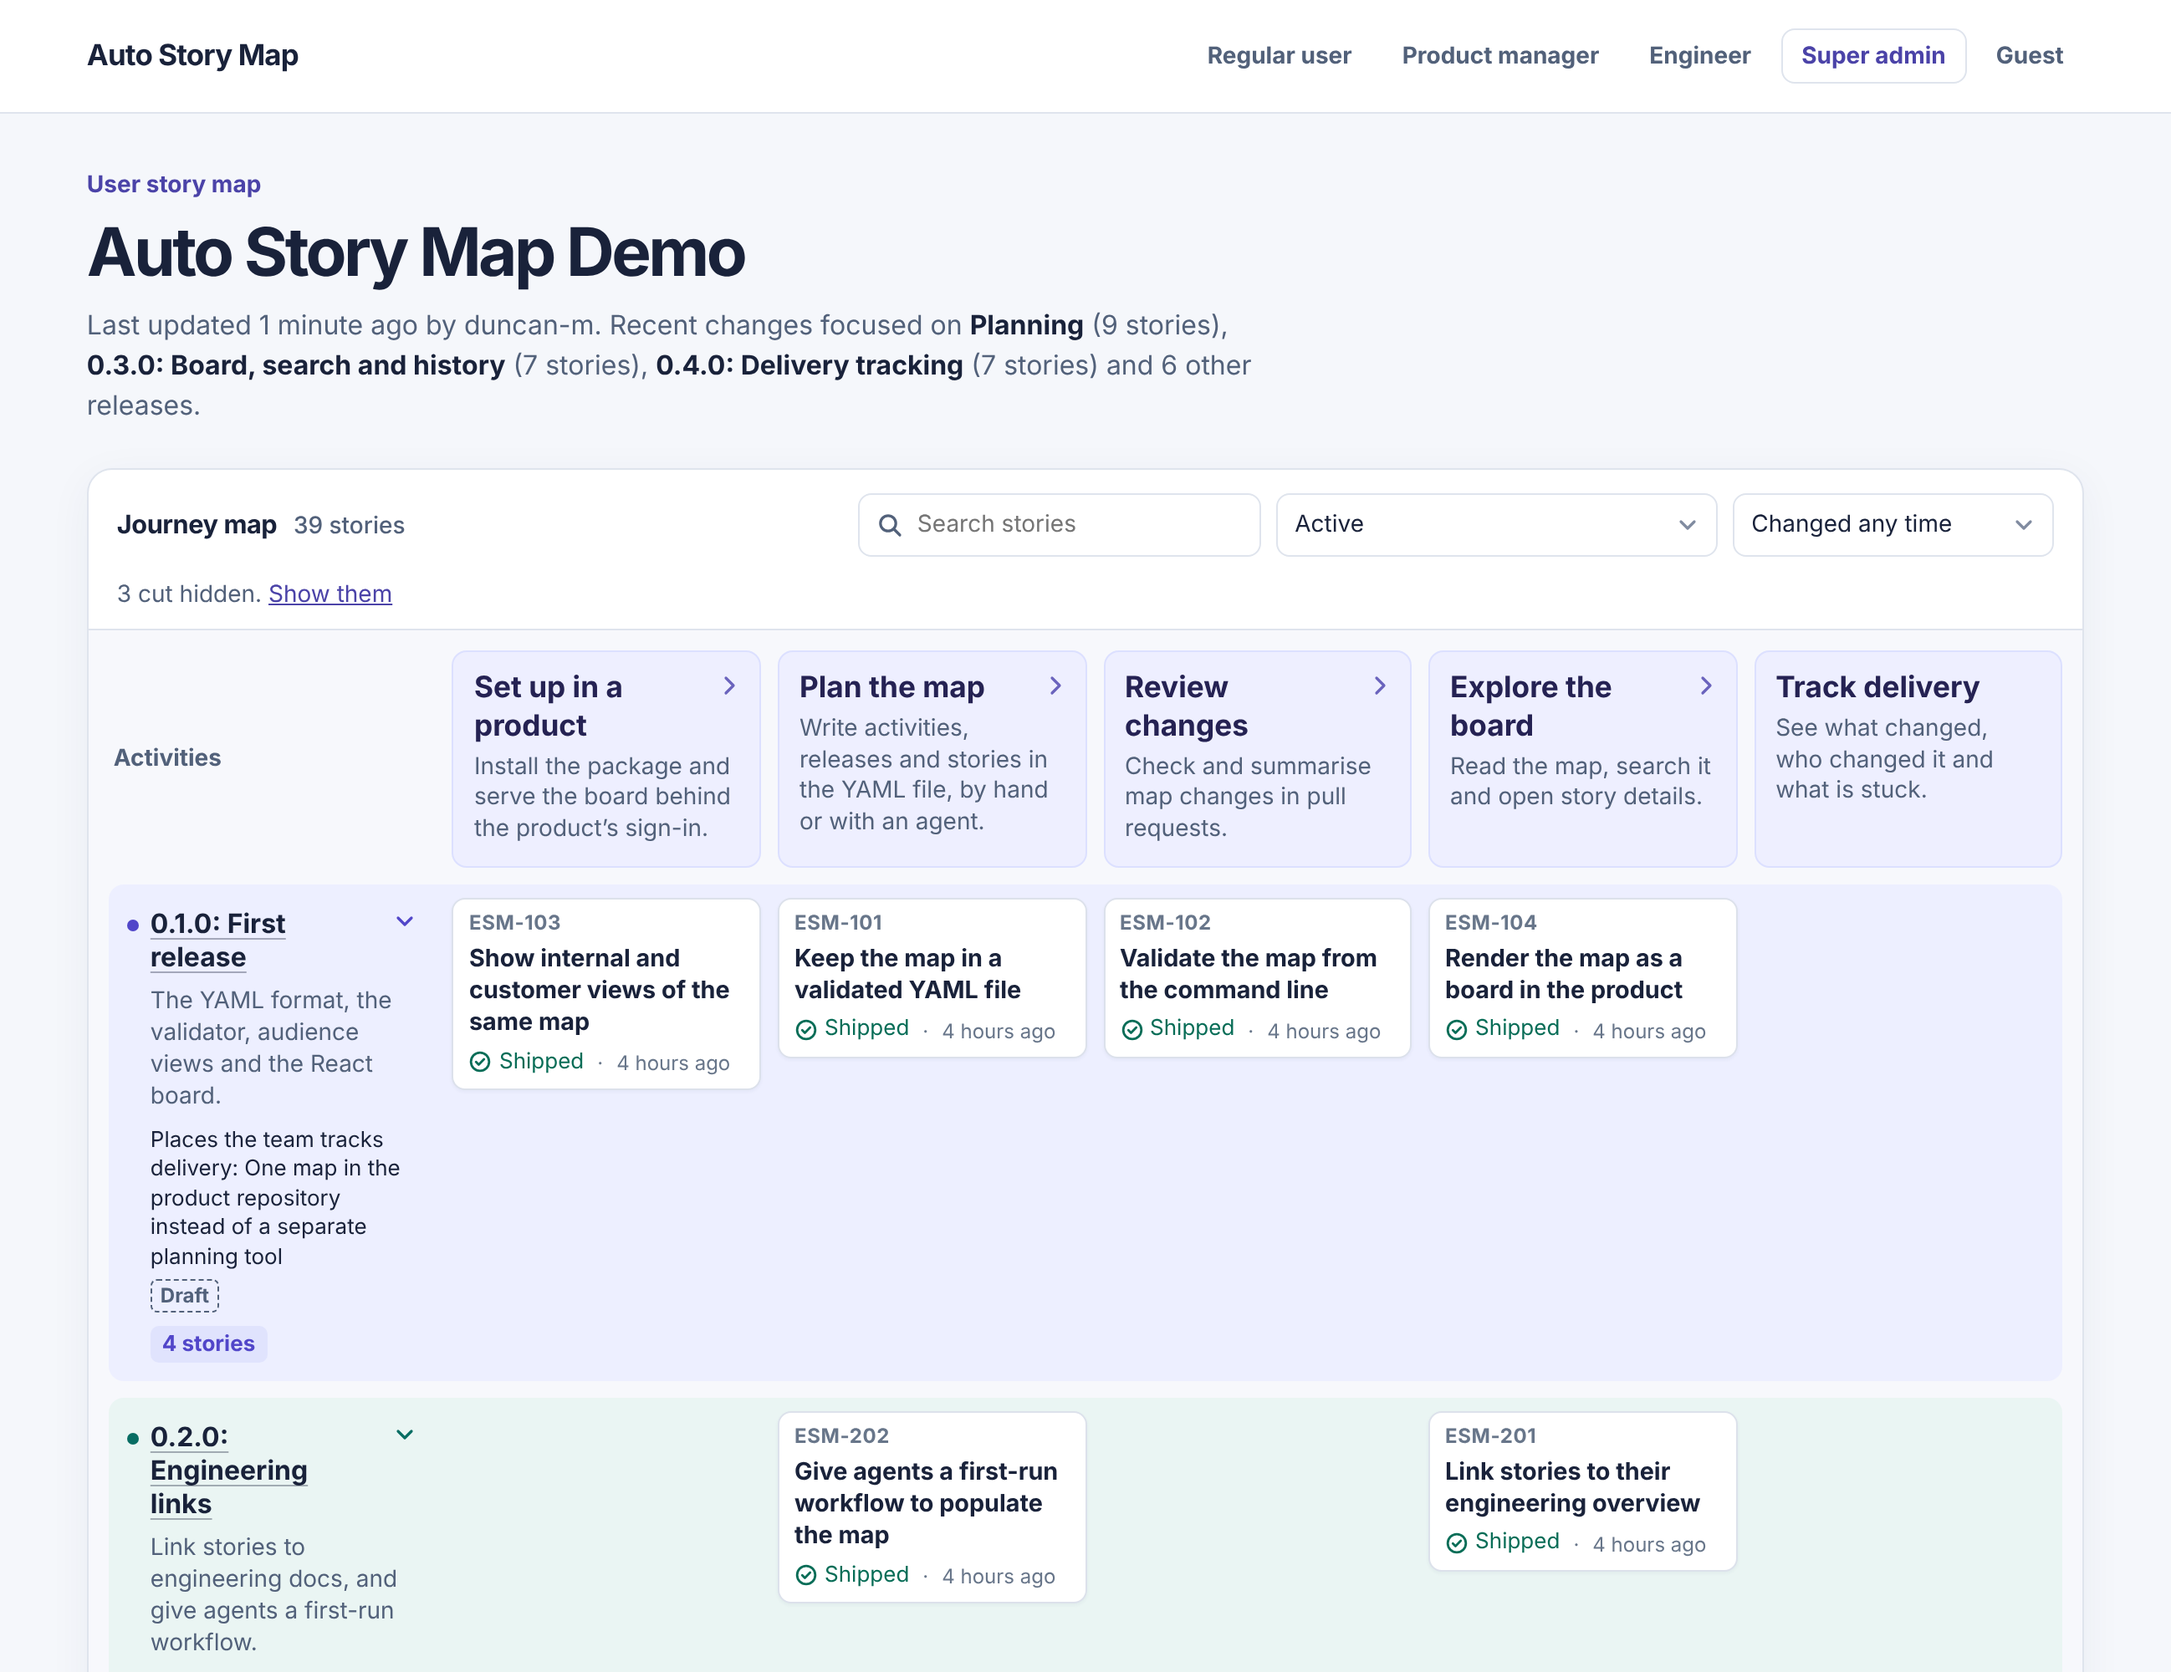
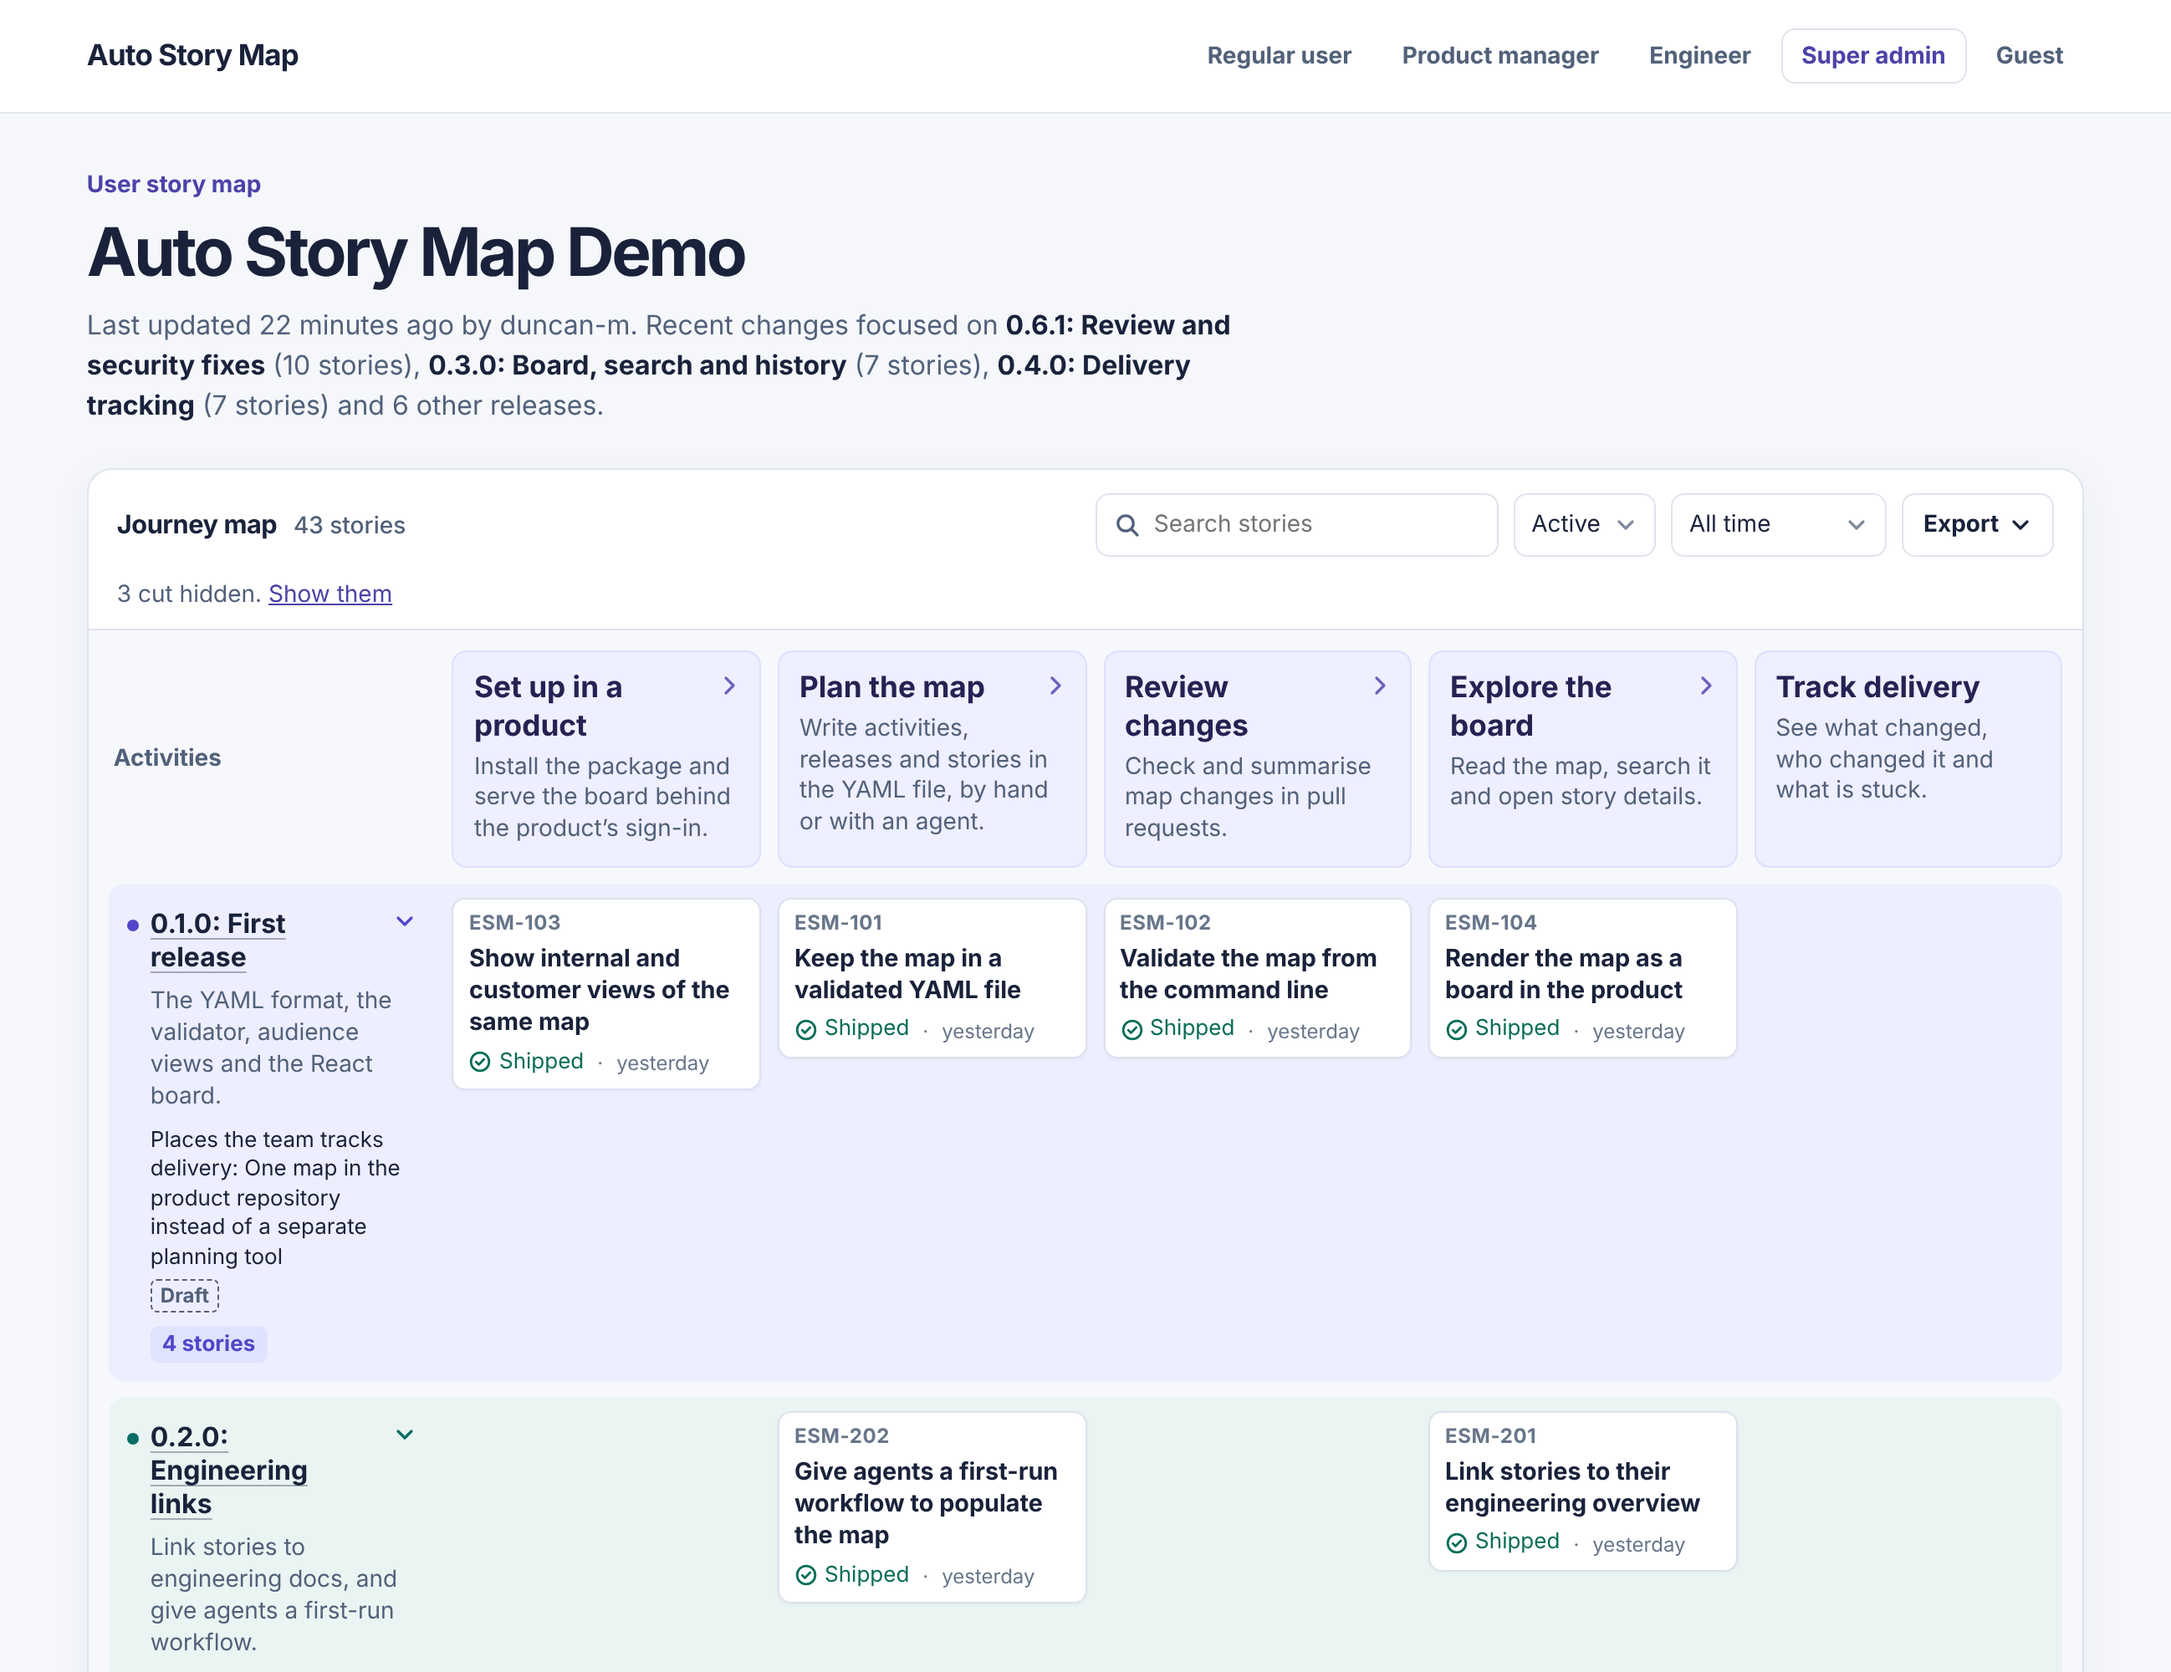
Drop the space in hour times on cards and retake the README screenshot (#65)
* Drop the space in hour times on story cards

Cards now show “5h ago” rather than “5 h ago”.

Claude-Session: https://claude.ai/code/session_01Lq2MQT41yHbjan5anC9srX

* Retake the README screenshot with the Export menu and current map

Claude-Session: https://claude.ai/code/session_01Lq2MQT41yHbjan5anC9srX

---------

diff --git a/src/react.tsx b/src/react.tsx
@@ -132,11 +132,11 @@ function RecentUpdates({ updates, settings }: { updates: StoryMapRecentUpdates; 
   );
 }
 
-/** Cards are tight on space, so “5 h ago” and “12 mins ago”; longer spans read as `formatRelative`. */
+/** Cards are tight on space, so “5h ago” and “12 mins ago”; longer spans read as `formatRelative`. */
 function formatCardRelative(at: string, settings: DateSettings) {
   const minutes = Math.floor((settings.now.getTime() - Date.parse(at)) / 60_000);
   if (minutes >= 1 && minutes < 60) return `${minutes} ${minutes === 1 ? "min" : "mins"} ago`;
-  if (minutes >= 60 && minutes < 24 * 60) return `${Math.floor(minutes / 60)} h ago`;
+  if (minutes >= 60 && minutes < 24 * 60) return `${Math.floor(minutes / 60)}h ago`;
   return formatRelative(at, settings);
 }
 

diff --git a/CHANGELOG.md b/CHANGELOG.md
@@ -8,7 +8,7 @@ One upgrade step: if host code reads `view.filter.status` or the JSON `filter.st
 
 - The board footer shows the short hash of the commit the library was built from, right of the version number, such as “Auto Story Map 0.6.1 50058dd”. Internal boards link it to the commit on GitHub. Builds made outside a git checkout show the version alone. New export `storyMapCommit`.
 
-- Internal cards shorten the time since a story last changed to “5 h ago” and “12 mins ago”. The board header and story panel keep “5 hours ago” and “12 minutes ago”.
+- Internal cards shorten the time since a story last changed to “5h ago” and “12 mins ago”. The board header and story panel keep “5 hours ago” and “12 minutes ago”.
 
 - New `storyMapToVsdx(view, { collapsedReleases, maxStories, now })` writes the internal map as a Visio file (`.vsdx`) to import into Lucidchart, Miro or Visio. It is one page laid out like the board, with release notes and impact, and a card per story showing its ID and title, plus shape data. Collapsed lanes show only their title and story count, and at most 200 of the most recently changed stories are included. Customer views and filtered views are refused. New exports `vsdxContentType` and type `StoryMapExportOptions`. See [Export the map](https://github.com/duncan-m/auto-story-map/blob/main/docs/story-map.md#export-the-map).
 - New `story-map export --format vsdx [--output <file>] [--history <file>] [--collapsed <release IDs>] [--max-stories <n>] [<map.yaml>]` writes the same Visio file from the YAML file, without a host route. It validates the map first, always exports the internal view, and writes to `story-map.vsdx` by default, or to stdout with `--output -`. See [Export the map](https://github.com/duncan-m/auto-story-map/blob/main/docs/story-map.md#export-the-map).

diff --git a/README.md b/README.md
@@ -9,7 +9,7 @@ Because it sits directly inside your product, there are no extra accounts to man
 
 ## Screenshot
 
-![This library's own story map in the demo, as a super admin sees it. Under the title, a line says when the map was last updated, by whom, and which releases recent changes focused on. Activities from setting up to tracking delivery run across the top, with a lane for each release and its expected impact, and story cards showing each story's ID, title, status and when it last changed. The Active filter hides three cut stories and offers a link to show them.](https://raw.githubusercontent.com/duncan-m/auto-story-map/main/story-map-screenshot.png)
+![This library's own story map in the demo, as a super admin sees it. Under the title, a line says when the map was last updated, by whom, and which releases recent changes focused on. Activities from setting up to tracking delivery run across the top, with a lane for each release and its expected impact, and story cards showing each story's ID, title, status and when it last changed. The Active filter hides three cut stories and offers a link to show them, and an Export menu sits beside the filters.](https://raw.githubusercontent.com/duncan-m/auto-story-map/main/story-map-screenshot.png)
 
 ## Try the demo
 

diff --git a/docs/ENGINEERING-OVERVIEW.md b/docs/ENGINEERING-OVERVIEW.md
@@ -269,7 +269,7 @@ The optional `board.js` script (`src/board.ts`) enhances the form without changi
 
 ### Dates
 
-`locale` (default `en-GB`), `timeZone` and `now` control date output. Cards show short relative times (“12 mins ago”, “5 h ago”, “yesterday”), switching to a date after 30 days; the header and story panel spell out hours and minutes. Without `timeZone`, dates use the server's zone, which may not match the team's. Tests pass a fixed `now` so output is deterministic.
+`locale` (default `en-GB`), `timeZone` and `now` control date output. Cards show short relative times (“12 mins ago”, “5h ago”, “yesterday”), switching to a date after 30 days; the header and story panel spell out hours and minutes. Without `timeZone`, dates use the server's zone, which may not match the team's. Tests pass a fixed `now` so output is deterministic.
 
 `dateFormatters` builds the `Intl` formatters once per render, not once per date. `Intl` throws a `RangeError` for a locale or time zone it does not recognise, which would fail the whole page, so the helper checks both first. A bad locale falls back to `en-GB` and a bad time zone to the runtime's zone, each with a `console.warn` that is logged once per process.
 
